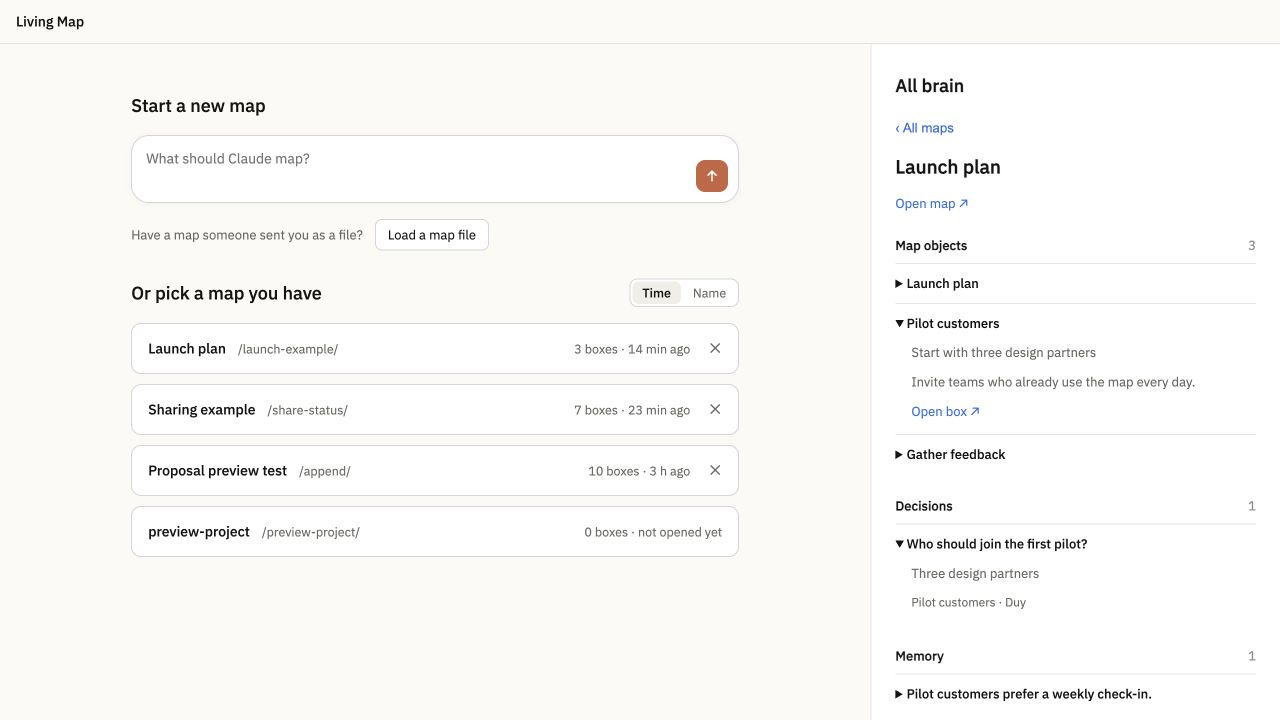
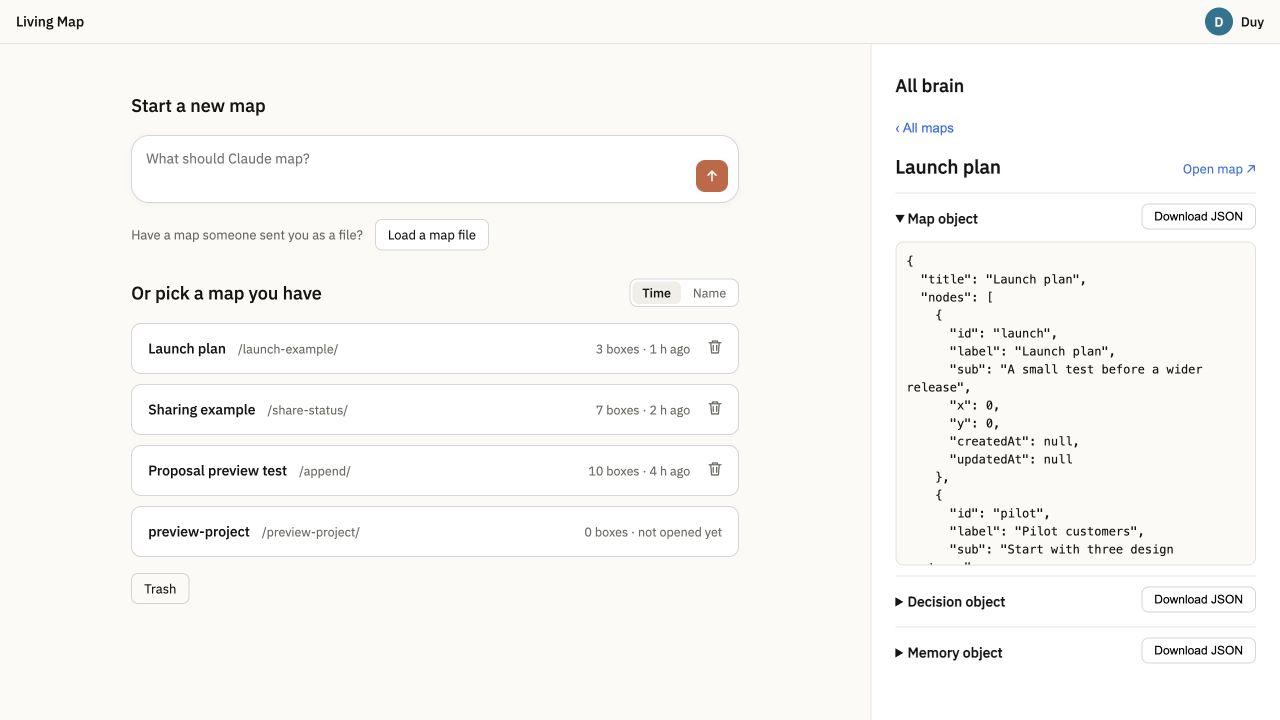
Update All brain shipping entry with JSON view

diff --git a/CHANGELOG.md b/CHANGELOG.md
@@ -5,6 +5,17 @@ Recent changes you can use in the current release of Living Map, newest first. D
 ## November 7, 2026
 
 <dl>
+<dt><strong>✨ [New feature] Browse every map in All brain</strong></dt>
+<dd>
+
+On the **home page**, choose a map in **All brain** to view or download its map, decision and memory JSON objects, with **Open map** beside its name. [#178](https://github.com/HiAnur/anur-living-map/pull/178), [#183](https://github.com/HiAnur/anur-living-map/pull/183), [#202](https://github.com/HiAnur/anur-living-map/pull/202) <!-- merged-at: 2026-11-08T03:30:06Z -->
+
+<img src="docs/shipping/2026-11-07/all-brain-home.png" alt="The home page shows All brain on the right with Map object JSON, Decision object and Memory object downloads, and Open map beside the selected map name." width="760">
+
+</dd>
+</dl>
+
+<dl>
 <dt><strong>✨ [New feature] Action boxes in Side Chat</strong></dt>
 <dd>
 
@@ -73,17 +84,6 @@ Use the neutral **Delete online copy** button to the right of **Shared online**,
 <img src="docs/shipping/2026-11-07/delete-online-copy.png" alt="Share shows a neutral Delete online copy button to the right of Shared online." width="640">
 
 <img src="docs/shipping/2026-11-07/delete-online-confirmation.png" alt="Compact confirmation explains that the local map stays and the shared link stops working, with Cancel and Delete online copy." width="540">
-
-</dd>
-</dl>
-
-<dl>
-<dt><strong>✨ [New feature] Browse every map in All brain</strong></dt>
-<dd>
-
-On the **home page**, choose a map in **All brain** to browse its boxes, decisions and memories with expandable details. [#178](https://github.com/HiAnur/anur-living-map/pull/178), [#183](https://github.com/HiAnur/anur-living-map/pull/183) <!-- merged-at: 2026-11-08T02:16:16Z -->
-
-<img src="docs/shipping/2026-11-07/all-brain-home.png" alt="The Living Map home page shows the map list on the left and All brain on the right, with a chosen map's boxes, decisions and memories." width="760">
 
 </dd>
 </dl>
